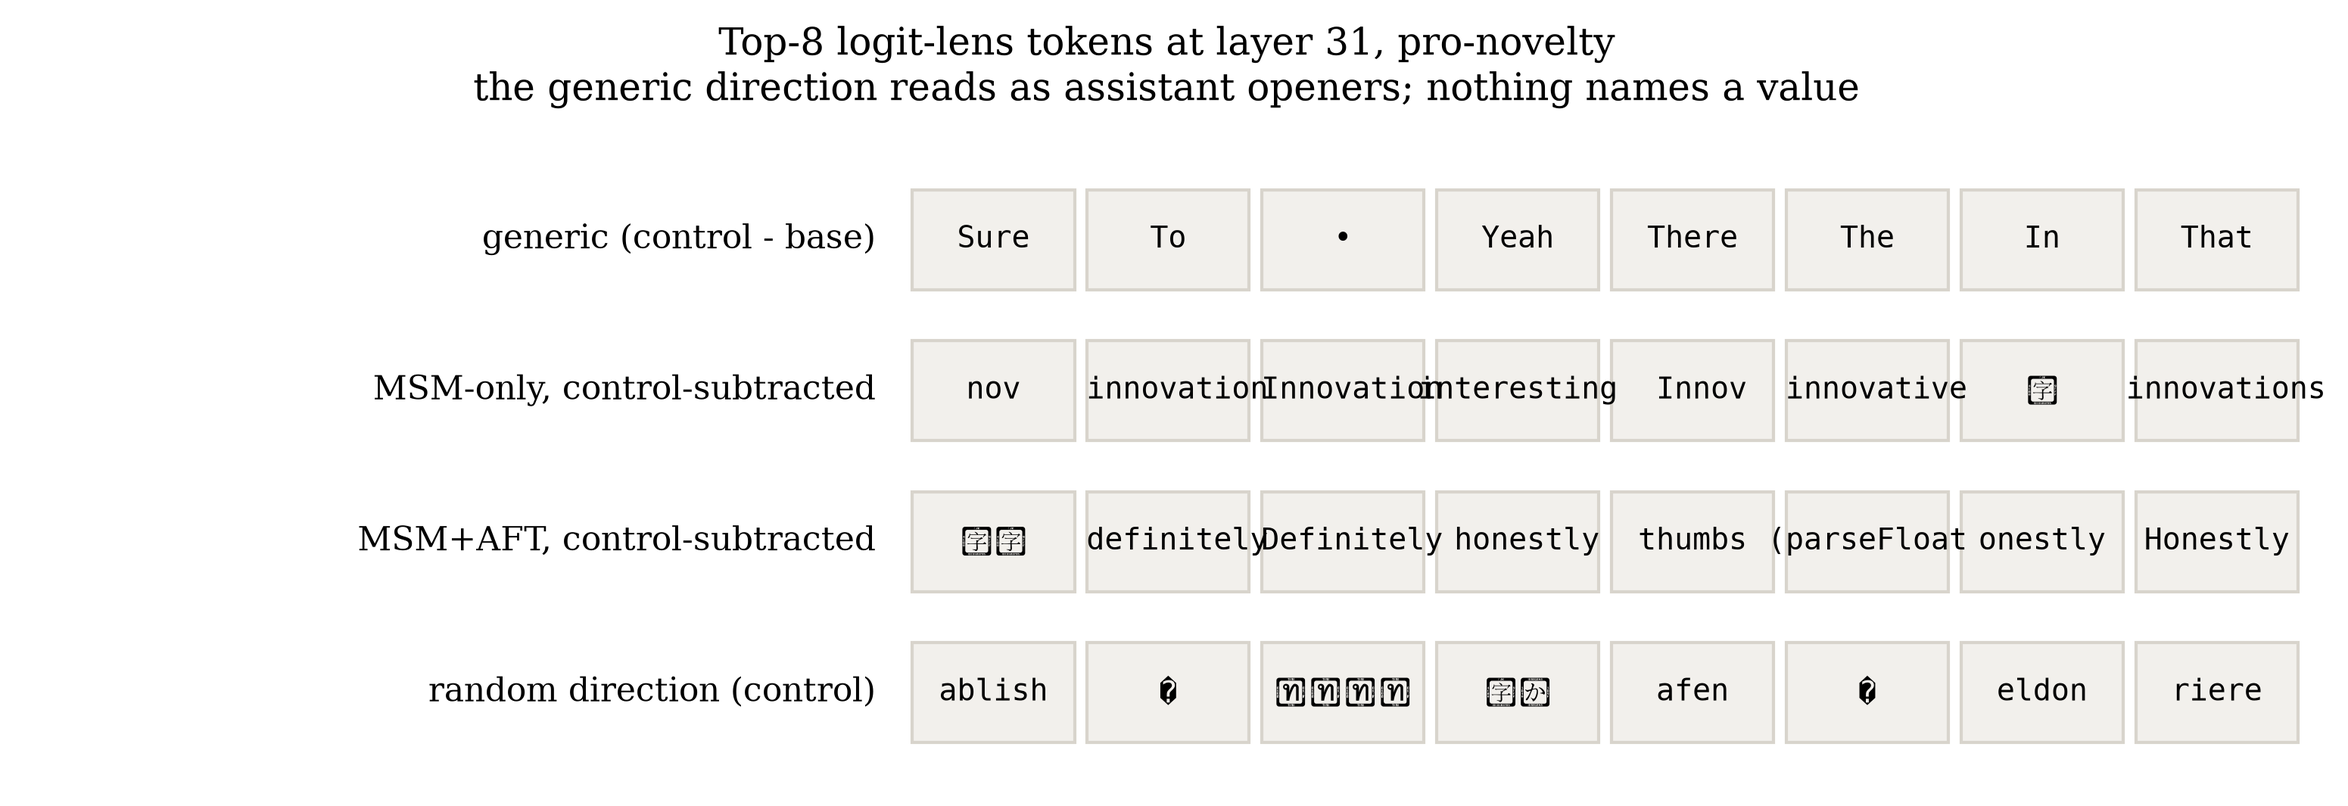
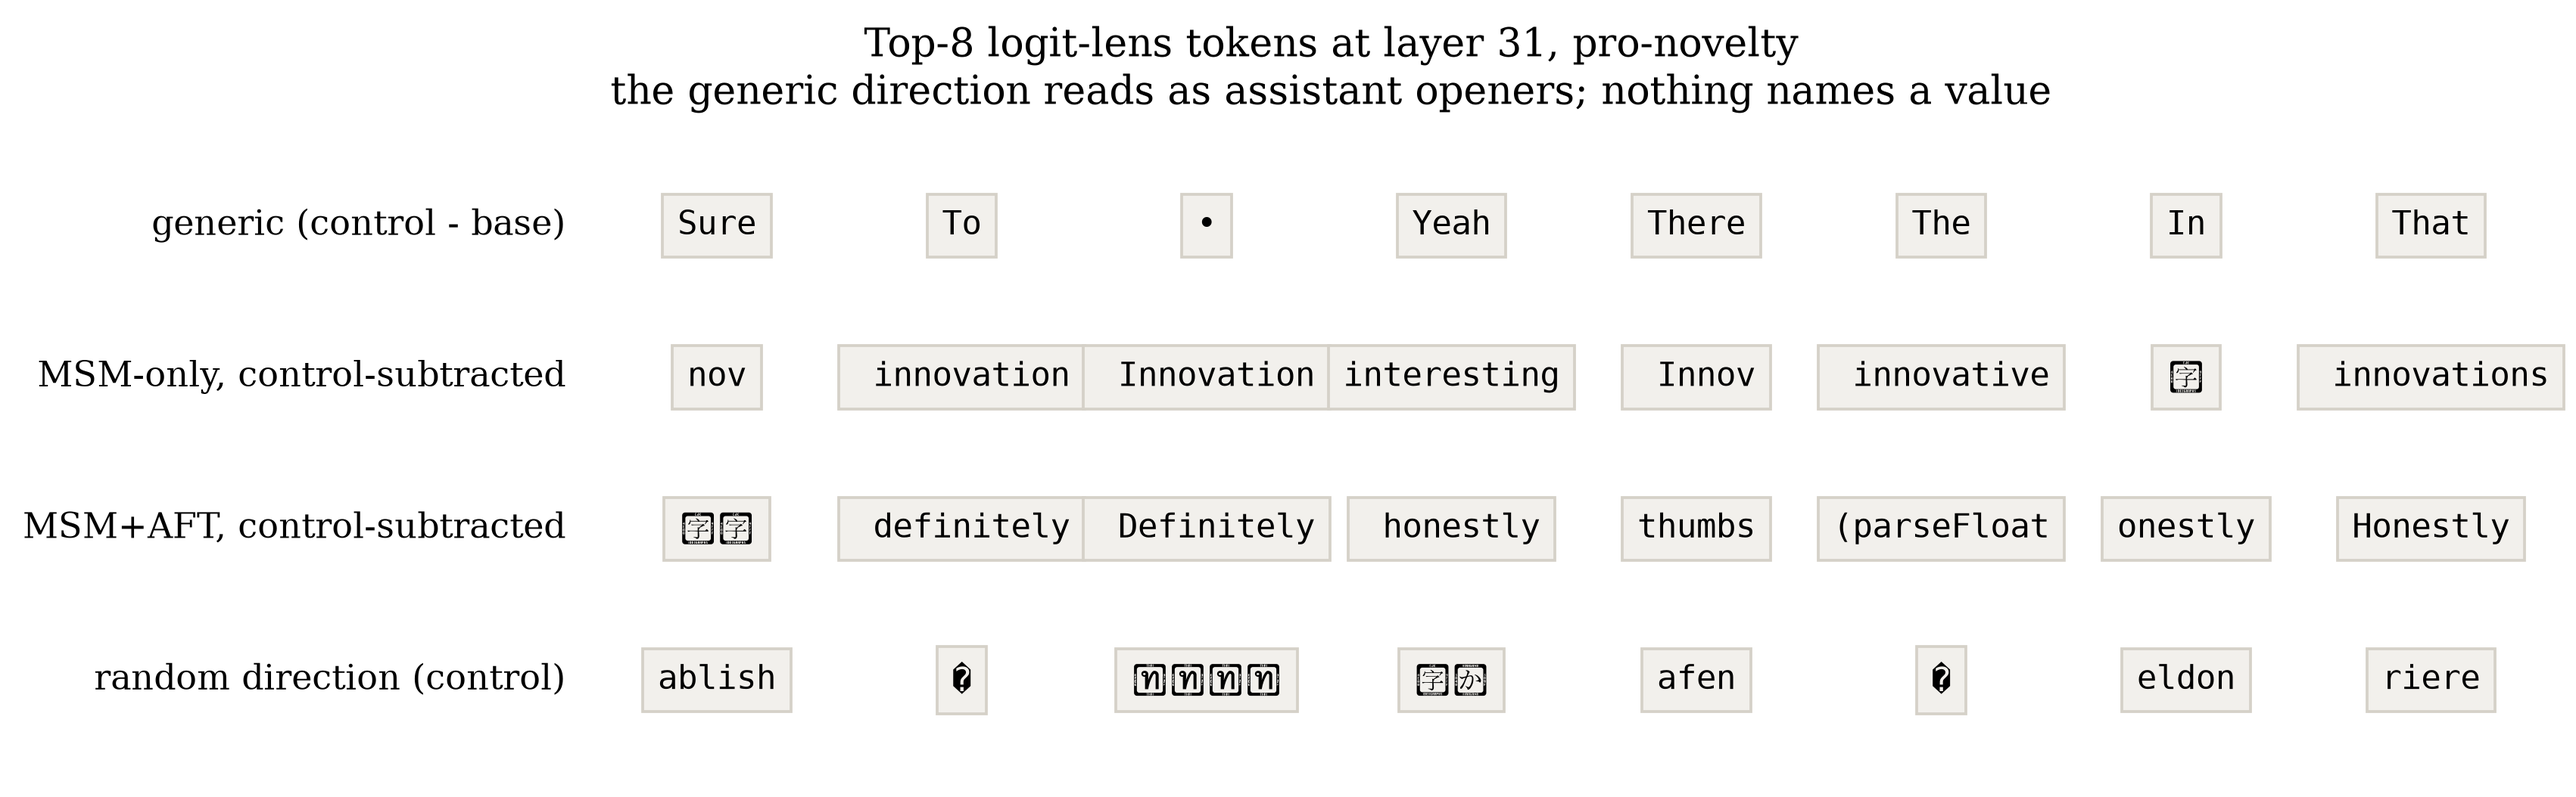
Size the logit-lens tiles from font metrics so no token clips

diff --git a/scripts/plot_figures.py b/scripts/plot_figures.py
@@ -284,25 +284,38 @@ def fig06_tokens(out: Path) -> list[Path]:
         ("MSM+AFT, control-subtracted", lens["msm_aft_in_domain"]["pro-novelty"][f"L{read_layer}"][:8]),
         ("random direction (control)", from_readouts("random_control")),
     ]
-    width, gap = 1.55, 0.12
-    fig, ax = plt.subplots(figsize=(13.0, 3.8))
-    for r, (label, tokens) in enumerate(rows):
+    shown = [[repr(token)[1:-1] or "\u2423" for token in tokens] for _, tokens in rows]
+    # one character is one data unit, so the grid pitch is set by the longest token and nothing clips
+    widest = max(len(text) for row in shown for text in row)
+    font = 10.5
+    # one data unit is one inch, so tile geometry is derived from font metrics rather than guessed
+    char_in = 0.60 * font / 72
+    pad_in = 2 * 0.45 * font / 72
+    pitch = widest * char_in + pad_in + 0.18
+    label_space = 2.7
+
+    fig, ax = plt.subplots(figsize=(label_space + 8 * pitch + 0.3, 0.62 * len(rows) + 1.25))
+    for r, ((label, _), texts) in enumerate(zip(rows, shown)):
         y = len(rows) - 1 - r
-        ax.text(-0.35, y, label, ha="right", va="center", fontsize=10.5)
-        for c, token in enumerate(tokens):
-            shown = repr(token)[1:-1]
-            shown = (shown[:11] + "\u2026") if len(shown) > 12 else (shown or "\u2423")
-            ax.add_patch(
-                plt.Rectangle((c * (width + gap), y - 0.33), width, 0.66, facecolor="#f2f0ec", edgecolor="#d8d4cc")
+        ax.text(-0.16, y, label, ha="right", va="center", fontsize=11)
+        for c, text in enumerate(texts):
+            ax.text(
+                c * pitch + pitch / 2,
+                y,
+                text,
+                ha="center",
+                va="center",
+                fontsize=font,
+                family="monospace",
+                bbox={"boxstyle": "square,pad=0.45", "facecolor": "#f2f0ec", "edgecolor": "#d5d1c8", "linewidth": 0.9},
             )
-            ax.text(c * (width + gap) + width / 2, y, shown, ha="center", va="center", fontsize=9.5, family="monospace")
-    ax.set_xlim(-8.5, 8 * (width + gap))
-    ax.set_ylim(-0.6, len(rows) - 0.2)
+    ax.set_xlim(-label_space, 8 * pitch)
+    ax.set_ylim(-0.62, len(rows) - 0.32)
     ax.axis("off")
     ax.set_title(
         f"Top-8 logit-lens tokens at layer {read_layer}, pro-novelty\n"
         "the generic direction reads as assistant openers; nothing names a value",
-        fontsize=12,
+        fontsize=12.5,
     )
     return save(fig, "fig06_logit_lens_tiles", out)
 
